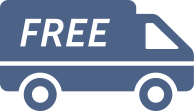
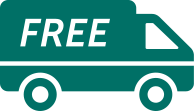
27.09.17

diff --git a/css/styles.css b/css/styles.css
@@ -32,7 +32,7 @@ a {
 }
 a:hover {
   text-decoration: none;
-  color: #939aa7;
+  color: #3A3F3F;
 }
 .font_bold {
   font-size: 14px;
@@ -87,7 +87,7 @@ a:hover {
 .navbar-nav > li > a:hover,
 .navbar-nav > li > a:active,
 .navbar-nav > li > a:focus {
-  color: #939aa7 !important;
+  color: #3A3F3F !important;
 }
 li.active > a {
   background-color: #fff !important;
@@ -101,7 +101,7 @@ li.active > a {
   background-position: center;
 }
 .mynavbar_basket:hover {
-  border: 2px solid #939aa7;
+  border: 2px solid #3A3F3F;
 }
 /* Карусель*/
 .carousel {
@@ -138,18 +138,61 @@ li.active > a {
   top: 29vh;
 }
 .servis {
+  height: 200px;
+  margin-top: 20px;
   text-align: center;
 }
-.payment,
-.delivery,
-.guarantee {
-  margin: 30px auto;
-  height: 100px;
+.servis p {
+  color: #00a9a1;
+  font-size: 18px;
+  text-transform: uppercase;
 }
-.str {
-  background-color: rgba(62, 13, 13, 0.4);
-  height: 200px;
-  margin-top: 100px;
+.servis_payment,
+.servis_delivery,
+.servis_guarantee {
+  margin: 30px auto;
+  height: 70px;
+}
+.assortment {
+  height: 436px;
+}
+.assortment .assortment_sofas,
+.assortment .assortment_accessories,
+.assortment .assortment_benches,
+.assortment .assortment_lightning {
+  height: 218px;
+  padding: 0;
+  border: 1px solid white;
+  background-image: url(../img/sofa.png);
+  background-repeat: no-repeat;
+  background-position: center;
+  background-size: cover;
+}
+.assortment .assortment_sofas:hover .assortment_blockhover,
+.assortment .assortment_accessories:hover .assortment_blockhover,
+.assortment .assortment_benches:hover .assortment_blockhover,
+.assortment .assortment_lightning:hover .assortment_blockhover,
+.assortment .assortment_sofas:active .assortment_blockhover,
+.assortment .assortment_accessories:active .assortment_blockhover,
+.assortment .assortment_benches:active .assortment_blockhover,
+.assortment .assortment_lightning:active .assortment_blockhover,
+.assortment .assortment_sofas:focus .assortment_blockhover,
+.assortment .assortment_accessories:focus .assortment_blockhover,
+.assortment .assortment_benches:focus .assortment_blockhover,
+.assortment .assortment_lightning:focus .assortment_blockhover {
+  display: block;
+}
+.assortment .assortment_sofas .assortment_blockhover,
+.assortment .assortment_accessories .assortment_blockhover,
+.assortment .assortment_benches .assortment_blockhover,
+.assortment .assortment_lightning .assortment_blockhover {
+  background-color: rgba(25, 32, 32, 0.9);
+  height: 218px;
+  display: none;
+}
+.assortment .assortment_customfurniture {
+  background-color: #130F0F;
+  height: 436px;
 }
 /*Адаптивность */
 @media (max-width: 449px) {
@@ -182,4 +225,4 @@ li.active > a {
   }
 }
 
[2 lines of base64/hex data omitted]

diff --git a/css/styles.min.css b/css/styles.min.css
@@ -1,1 +1,1 @@
-@font-face{font-family:RobotoSlabRegular;src:url(../fonts/RobotoSlabRegular/RobotoSlabRegular.eot);src:url(../fonts/RobotoSlabRegular/RobotoSlabRegular.eot?#iefix) format("embedded-opentype"),url(../fonts/RobotoSlabRegular/RobotoSlabRegular.woff) format("woff"),url(../fonts/RobotoSlabRegular/RobotoSlabRegular.ttf) format("truetype");font-style:normal;font-weight:400}@font-face{font-family:RobotoSlabLight;src:url(../fonts/RobotoSlabLight/RobotoSlabLight.eot);src:url(../fonts/RobotoSlabLight/RobotoSlabLight.eot?#iefix) format("embedded-opentype"),url(../fonts/RobotoSlabLight/RobotoSlabLight.woff) format("woff"),url(../fonts/RobotoSlabLight/RobotoSlabLight.ttf) format("truetype");font-style:normal;font-weight:400}@font-face{font-family:RobotoSlabBold;src:url(../fonts/RobotoSlabBold/RobotoSlabBold.eot);src:url(../fonts/RobotoSlabBold/RobotoSlabBold.eot?#iefix) format("embedded-opentype"),url(../fonts/RobotoSlabBold/RobotoSlabBold.woff) format("woff"),url(../fonts/RobotoSlabBold/RobotoSlabBold.ttf) format("truetype");font-style:normal;font-weight:400}@font-face{font-family:RobotoRegular;src:url(../fonts/RobotoRegular/RobotoRegular.eot);src:url(../fonts/RobotoRegular/RobotoRegular.eot?#iefix) format("embedded-opentype"),url(../fonts/RobotoRegular/RobotoRegular.woff) format("woff"),url(../fonts/RobotoRegular/RobotoRegular.ttf) format("truetype");font-style:normal;font-weight:400}a{text-decoration:none}a:hover{text-decoration:none;color:#939aa7}.font_bold{font-size:14px;font-family:RobotoSlabBold;text-transform:uppercase}.font_light{font-size:12px;font-family:RobotoRegular}.topheader{font-family:RobotoRegular;line-height:28px;height:30px;background-color:#00a9a1}.topheader_support{height:30px;font-size:14px;color:#fff;margin-left:0}.navbar-default .navbar-toggle{z-index:100;border-color:#00a9a1}.navbar-default .navbar-toggle .icon-bar{background-color:#00a9a1}.mynavbar{height:88px;border:none;border-radius:0;padding-top:17px}.mynavbar_brand,.navbar-brand{padding-left:17px;font-size:50px;line-height:.6em;font-family:RobotoSlabLight;color:#00a9a1!important}.navbar-default .navbar-collapse{border:none}.navbar-nav>li>a{color:#00a9a1!important}.navbar-nav>li>a:active,.navbar-nav>li>a:focus,.navbar-nav>li>a:hover{color:#939aa7!important}li.active>a{background-color:#fff!important}.mynavbar_basket{width:40px;height:40px;border:2px solid #00a9a1;background-image:url(../img/basket.png);background-repeat:no-repeat;background-position:center}.mynavbar_basket:hover{border:2px solid #939aa7}.carousel{height:490px!important;overflow:hidden}.carousel-inner{overflow:visible}.carousel-inner img{left:50%;max-width:none!important;min-height:490px;min-width:100%;position:absolute;top:200px;-webkit-transform:translate(-50%,-50%);transform:translate(-50%,-50%)}.item_colormask{background-color:rgba(0,169,161,.3);min-height:490px;min-width:2000px;position:absolute;top:0}.item_slogan{font-size:28px;font-family:RobotoSlabLight;color:#fbfbfb;background-color:rgba(211,228,227,.4);margin-left:7vw;position:relative;top:29vh}.servis{text-align:center}.delivery,.guarantee,.payment{margin:30px auto;height:100px}.str{background-color:rgba(62,13,13,.4);height:200px;margin-top:100px}@media (max-width:449px){.topheader_support{font-size:12px}.mynavbar_brand,.navbar-brand{position:absolute}}@media (max-width:767px){.navbar-default .navbar-collapse{position:relative;z-index:40;background-color:#fff;width:250px;height:350px;top:40px}}@media (min-width:768px) and (max-width:992px){.navbar-nav>li>a{padding:10px 10px}.mynavbar_brand,.navbar-brand{font-size:34px;line-height:.7em}}
+@font-face{font-family:RobotoSlabRegular;src:url(../fonts/RobotoSlabRegular/RobotoSlabRegular.eot);src:url(../fonts/RobotoSlabRegular/RobotoSlabRegular.eot?#iefix) format("embedded-opentype"),url(../fonts/RobotoSlabRegular/RobotoSlabRegular.woff) format("woff"),url(../fonts/RobotoSlabRegular/RobotoSlabRegular.ttf) format("truetype");font-style:normal;font-weight:400}@font-face{font-family:RobotoSlabLight;src:url(../fonts/RobotoSlabLight/RobotoSlabLight.eot);src:url(../fonts/RobotoSlabLight/RobotoSlabLight.eot?#iefix) format("embedded-opentype"),url(../fonts/RobotoSlabLight/RobotoSlabLight.woff) format("woff"),url(../fonts/RobotoSlabLight/RobotoSlabLight.ttf) format("truetype");font-style:normal;font-weight:400}@font-face{font-family:RobotoSlabBold;src:url(../fonts/RobotoSlabBold/RobotoSlabBold.eot);src:url(../fonts/RobotoSlabBold/RobotoSlabBold.eot?#iefix) format("embedded-opentype"),url(../fonts/RobotoSlabBold/RobotoSlabBold.woff) format("woff"),url(../fonts/RobotoSlabBold/RobotoSlabBold.ttf) format("truetype");font-style:normal;font-weight:400}@font-face{font-family:RobotoRegular;src:url(../fonts/RobotoRegular/RobotoRegular.eot);src:url(../fonts/RobotoRegular/RobotoRegular.eot?#iefix) format("embedded-opentype"),url(../fonts/RobotoRegular/RobotoRegular.woff) format("woff"),url(../fonts/RobotoRegular/RobotoRegular.ttf) format("truetype");font-style:normal;font-weight:400}a{text-decoration:none}a:hover{text-decoration:none;color:#3a3f3f}.font_bold{font-size:14px;font-family:RobotoSlabBold;text-transform:uppercase}.font_light{font-size:12px;font-family:RobotoRegular}.topheader{font-family:RobotoRegular;line-height:28px;height:30px;background-color:#00a9a1}.topheader_support{height:30px;font-size:14px;color:#fff;margin-left:0}.navbar-default .navbar-toggle{z-index:100;border-color:#00a9a1}.navbar-default .navbar-toggle .icon-bar{background-color:#00a9a1}.mynavbar{height:88px;border:none;border-radius:0;padding-top:17px}.mynavbar_brand,.navbar-brand{padding-left:17px;font-size:50px;line-height:.6em;font-family:RobotoSlabLight;color:#00a9a1!important}.navbar-default .navbar-collapse{border:none}.navbar-nav>li>a{color:#00a9a1!important}.navbar-nav>li>a:active,.navbar-nav>li>a:focus,.navbar-nav>li>a:hover{color:#3a3f3f!important}li.active>a{background-color:#fff!important}.mynavbar_basket{width:40px;height:40px;border:2px solid #00a9a1;background-image:url(../img/basket.png);background-repeat:no-repeat;background-position:center}.mynavbar_basket:hover{border:2px solid #3a3f3f}.carousel{height:490px!important;overflow:hidden}.carousel-inner{overflow:visible}.carousel-inner img{left:50%;max-width:none!important;min-height:490px;min-width:100%;position:absolute;top:200px;-webkit-transform:translate(-50%,-50%);transform:translate(-50%,-50%)}.item_colormask{background-color:rgba(0,169,161,.3);min-height:490px;min-width:2000px;position:absolute;top:0}.item_slogan{font-size:28px;font-family:RobotoSlabLight;color:#fbfbfb;background-color:rgba(211,228,227,.4);margin-left:7vw;position:relative;top:29vh}.servis{height:200px;margin-top:20px;text-align:center}.servis p{color:#00a9a1;font-size:18px;text-transform:uppercase}.servis_delivery,.servis_guarantee,.servis_payment{margin:30px auto;height:70px}.assortment{height:436px}.assortment .assortment_accessories,.assortment .assortment_benches,.assortment .assortment_lightning,.assortment .assortment_sofas{height:218px;padding:0;border:1px solid #fff;background-image:url(../img/sofa.png);background-repeat:no-repeat;background-position:center;background-size:cover}.assortment .assortment_accessories:active .assortment_blockhover,.assortment .assortment_accessories:focus .assortment_blockhover,.assortment .assortment_accessories:hover .assortment_blockhover,.assortment .assortment_benches:active .assortment_blockhover,.assortment .assortment_benches:focus .assortment_blockhover,.assortment .assortment_benches:hover .assortment_blockhover,.assortment .assortment_lightning:active .assortment_blockhover,.assortment .assortment_lightning:focus .assortment_blockhover,.assortment .assortment_lightning:hover .assortment_blockhover,.assortment .assortment_sofas:active .assortment_blockhover,.assortment .assortment_sofas:focus .assortment_blockhover,.assortment .assortment_sofas:hover .assortment_blockhover{display:block}.assortment .assortment_accessories .assortment_blockhover,.assortment .assortment_benches .assortment_blockhover,.assortment .assortment_lightning .assortment_blockhover,.assortment .assortment_sofas .assortment_blockhover{background-color:rgba(25,32,32,.9);height:218px;display:none}.assortment .assortment_customfurniture{background-color:#130f0f;height:436px}@media (max-width:449px){.topheader_support{font-size:12px}.mynavbar_brand,.navbar-brand{position:absolute}}@media (max-width:767px){.navbar-default .navbar-collapse{position:relative;z-index:40;background-color:#fff;width:250px;height:350px;top:40px}}@media (min-width:768px) and (max-width:992px){.navbar-nav>li>a{padding:10px 10px}.mynavbar_brand,.navbar-brand{font-size:34px;line-height:.7em}}

diff --git a/index.html b/index.html
@@ -17,7 +17,7 @@
         <section class="row">
             <div class="col-xs-12 ">
                 <div class="row topheader">
-                    <div class="col-sm-5 col-xs-12 topheader_support">телефон оператора:&nbsp+55&nbsp555&nbsp555&nbsp509</div>
+                    <div class="col-sm-5 col-xs-12 topheader_support">телефон оператора:&nbsp2&nbsp525&nbsp535</div>
                 </div>
             </div>
         </section>
@@ -56,7 +56,7 @@
         </section>
         <section class="row slider">
             <!-- Карусель -->
-            <div id="myCarousel" class="carousel slide" data-interval="300000" data-ride="carousel">
+            <div id="myCarousel" class="carousel slide" data-interval="3000" data-ride="carousel">
                 <!-- Индикаторы для карусели -->
                 <ol class="carousel-indicators">
                     <!-- Перейти к 0 слайду карусели с помощью соответствующего индекса data-slide-to="0" -->
@@ -99,29 +99,40 @@
             </div>
 
         </section>
-        <div class="row">
+        <section class="row">
             <div class="col-sm-12 col-md-4 servis ">
-                <div class="str"><img class="delivery" src="img/delivery.png" alt="...">
-                    <div>fffffffffffffffffffffffffffffffffffff</div>
+                <div><img class="servis_delivery" src="img/delivery.png" alt="...">
+                    <p>Бесплатная доставка !</p>
                 </div>
             </div>
             <div class="col-sm-12 col-md-4 servis ">
-                <div class="str"><img class="payment" src="img/payment.png" alt="...">
-                    <div>hhhhhhhhhhhhhhhhhhhhhhhhhhhhhhhhh</div>
+                <div><img class="servis_payment" src="img/payment.png" alt="...">
+                    <p>Безопасные платежи !</p>
                 </div>
             </div>
             <div class="col-sm-12 col-md-4 servis ">
-                <div class="str"><img class="guarantee" src="img/guarantee.png" alt="...">
-                    <div>hhhhhhhhhhhhhhhhhhhhhhhhhhhhhhhhhh</div>
+                <div><img class="servis_guarantee" src="img/guarantee.png" alt="...">
+                    <p>Вернем деньги !</p>
                 </div>
             </div>
-        </div>
+        </section>
+        <section class="container-fluid">
+            <div class="row assortment ">
+                <div class="col-sm-12 col-md-6 ">
+                    <div class="row">
+                        <div class="col-xs-6 assortment_sofas"><div class="assortment_blockhover">Диваны</div></div>
+                        <div class="col-xs-6 assortment_accessories"><div class="assortment_blockhover">Аксессуары</div></div>
+                    </div>
+                    <div class="row">
+                        <div class="col-xs-6 assortment_benches"><div class="assortment_blockhover">Кровати</div></div>
+                        <div class="col-xs-6 assortment_lightning"><div class="assortment_blockhover">Светильники</div></div>
+                    </div>
+                </div>
+                <div class="col-sm-12 col-md-6 assortment_customfurniture">Мебель на заказ</div>
+            </div>
+        </section>    
     </div>
-    <!-- container-fluid -->
-
-
-
-
+   
 
     <!-- jQuery -->
     <script src="vendor/jquery/jquery.min.js"></script>

diff --git a/less/styles.less b/less/styles.less
@@ -10,7 +10,7 @@ a {
     color: @color;
     }    
 }  
-
+ 
 
 .font_bold {
     font-size: 14px;
@@ -99,6 +99,7 @@ li.active > a {
     height: 490px !important;
     overflow: hidden;
   }
+
   .carousel-inner {
     overflow: visible;
   }
@@ -130,21 +131,54 @@ li.active > a {
     position: relative;
     top: 29vh;
     }
-
-  .servis  {
-        
-        text-align: center;
-    }
-
-    .payment, .delivery, .guarantee  {
-        margin: 30px auto;
-        height: 100px;
-    }
-
-    .str {
-        background-color: rgba(62, 13, 13, 0.4);
+   
+    .servis {
         height: 200px;
-        margin-top: 100px;
+        margin-top: 20px;
+        text-align:center;
+        p {
+        color: @colordark;
+        font-size: 18px;
+        text-transform:uppercase;
+        }
+    }
+  
+    .servis_payment, .servis_delivery, .servis_guarantee  {
+        margin: 30px auto;
+        height: 70px;  
+    }
+
+    .assortment {
+        height: 436px;
+        .assortment_sofas,.assortment_accessories,
+        .assortment_benches,.assortment_lightning {
+        height: 218px;
+        padding: 0;
+        border: 1px solid white;
+        background-image: url(../img/sofa.png);
+        background-repeat: no-repeat;
+        background-position: center;
+        background-size: cover;
+
+        &:hover,&:active,&:focus {
+            .assortment_blockhover {
+                display: block;
+            }
+        }
+        
+        .assortment_blockhover {
+                background-color: rgba(25, 32, 32, 0.9);
+                height: 218px;
+                display: none;
+        }
+
+        }
+        
+
+        .assortment_customfurniture {
+            background-color: #130F0F;
+            height: 436px;
+        }
     }
 
     /*Адаптивность */

diff --git a/less/myvariables.less b/less/myvariables.less
@@ -3,6 +3,6 @@
 @fontbold: "RobotoSlabBold";
 @fontcustom: "RobotoRegular";
 @colordark: #00a9a1;
-@color: #939aa7;
+@color: #3A3F3F;
 @colorlight: #ecedf1;
 @colorlighter: #ffffff;
